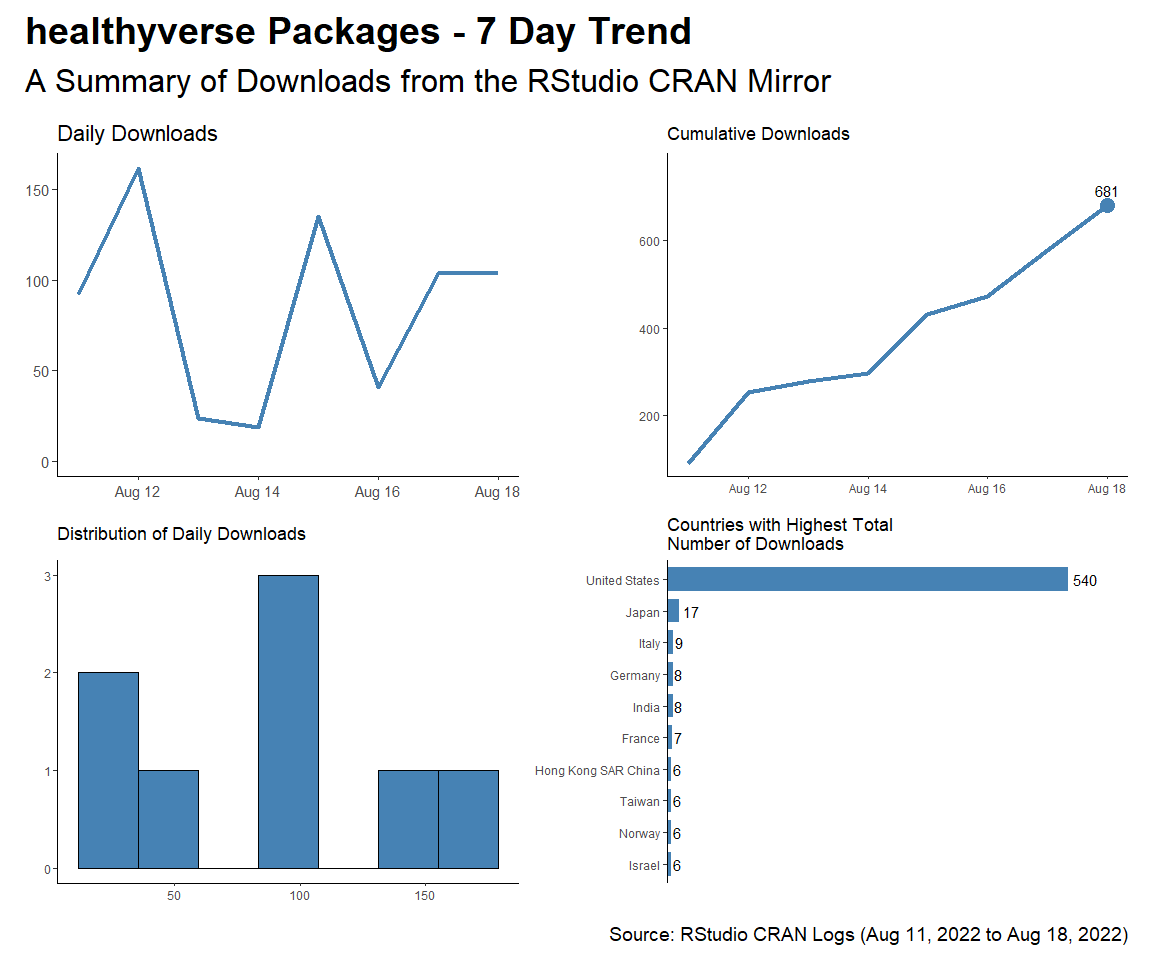
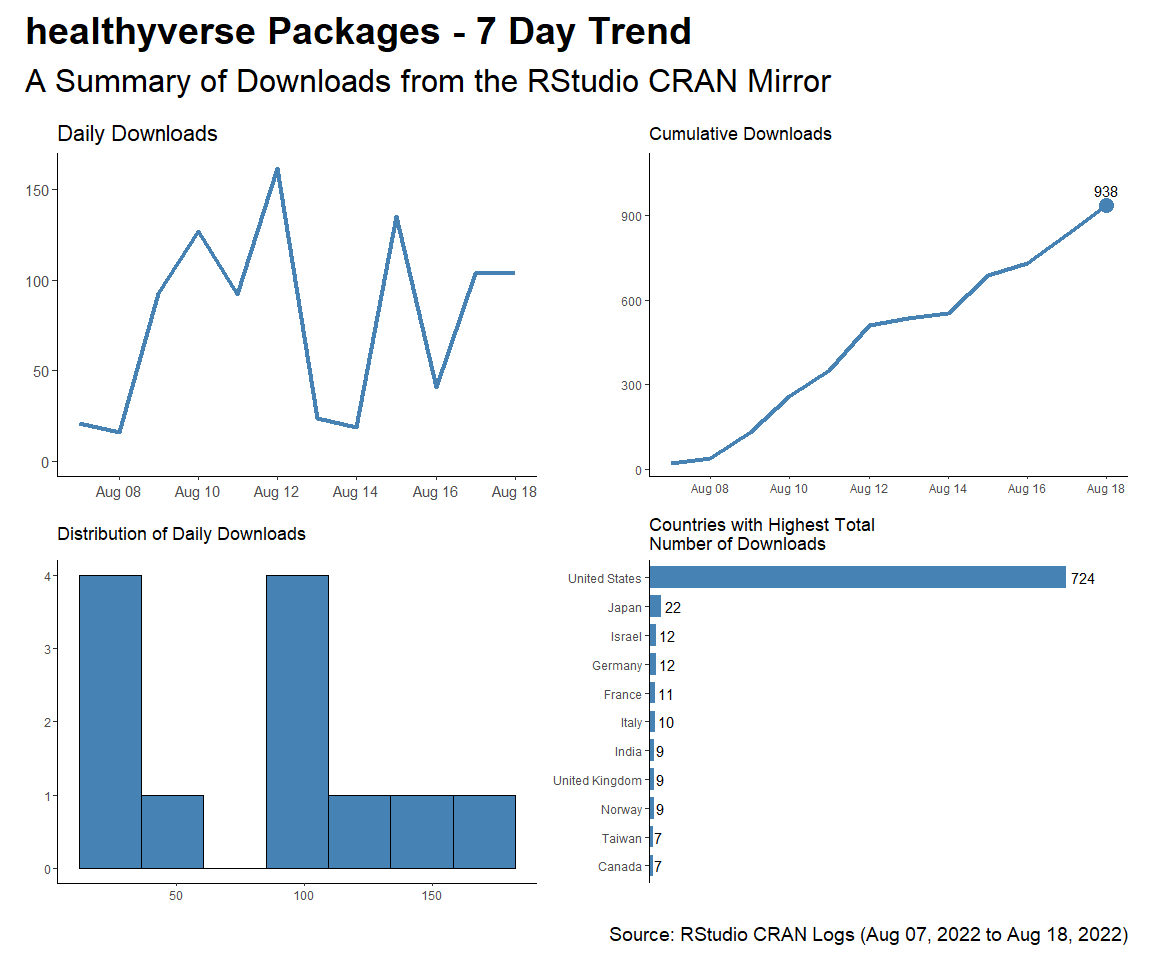
update

diff --git a/downloads_map.html b/downloads_map.html
@@ -4054,11 +4054,11 @@ function asArray(value) {
 </head>
 <body style="background-color: white;">
 <div id="htmlwidget_container">
-<div id="htmlwidget-6ce1a82392957fab905f" class="leaflet html-widget" style="width:100%;height:400px;">
+<div id="htmlwidget-2af5025da11c0f1e3ac8" class="leaflet html-widget" style="width:100%;height:400px;">
 
 </div>
 </div>
-<script type="application/json" data-for="htmlwidget-6ce1a82392957fab905f">{"x":{"options":{"crs":{"crsClass":"L.CRS.EPSG3857","code":null,"proj4def":null,"projectedBounds":null,"options":{}}},"calls":[{"method":"addTiles","args":["https://{s}.tile.openstreetmap.org/{z}/{x}/{y}.png",null,null,{"minZoom":0,"maxZoom":18,"tileSize":256,"subdomains":"abc","errorTileUrl":"","tms":false,"noWrap":false,"zoomOffset":0,"zoomReverse":false,"opacity":1,"zIndex":1,"detectRetina":false,"attribution":"&copy; <a href=\"https://openstreetmap.org\">OpenStreetMap<\/a> contributors, <a href=\"https://creativecommons.org/licenses/by-sa/2.0/\">CC-BY-SA<\/a>"}]},{"method":"addMarkers","args":[[39.7837304,54.7023545,51.0834196,22.350627,36.5748441,-31.7613365,-2.4833826,61.0666922,53.4250605,36.638392,32.6475314,4.099917,35.000074,-10.3333333,42.6384261,38.9597594,39.3260685,46.7985624,46.603354,30.3308401,24.0002488,1.4419683,33.0955793,47.1817585,45.9852129,15.2572432,50.6402809,22.3511148,64.6863136,52.15517,23.9739374,-28.8166236,59.6749712,8.0300284,45.5643442,52.215933,31.1667049,63.2467777,-6.8699697,31.1728205,31.5313113,47.59397,40.0332629,13.2904027,31.46242095,34.9823018,-41.5000831,-24.7761086,49.8167003,-14.5189121,10.2735633,60.5000209,14.8971921,8.559559,48.7411522,55.670249,1.357107,10.2116702,10.4430243,49.4871968,45.8133113,1.5333554,46.8250388,16.3471243,35.8885993,23.6585116,-0.5275,7.9897371,16.2490067,12.7503486,8.0018709,-34.9964963,49.8158683,52.865196,-18.4554963,33.8439408,44.1534121,38.9953683,16.8259793,25.6242618,4.5693754,-1.3397668,26.1551249,-23.3165935,26.2540493,-20.2759451,14.4750607,56.8406494,41.000028,24.7736546,25.3336984,41.6171214,55.3500003,33.8750629,13.8000382,-19.302233,9.5293472,13.1500331,7.5554942,28.0000272,-18.9249604,18.19897685,40.7696272,9.6000359,-26.5624806,19.0974031,10.7226226,-0.7264327,4.6125522,5.7499721,42.6073975,-23.1681782,47.2879608,58.7523778,-6.5247123],[-100.445882,-3.2765753,10.4234469,114.1849161,139.2394179,-71.3187697,117.8902853,-107.991707,27.6971358,127.6961188,54.5643516,-72.9088133,104.999927,-53.2,12.674297,34.9249653,-4.8379791,8.2319736,1.8883335,71.247499,53.9994829,38.4313975,44.1749775,19.5060937,24.6859225,-86.0755145,4.6667145,78.6677428,97.7453061,5.38721,120.9820179,24.991639,14.5208584,-1.0800271,17.0118954,19.134422,36.941628,25.9209164,-75.0458515,-7.3362482,34.8667654,14.12456,-7.8896263,108.4265113,34.2627165721307,33.1451285,172.8344077,134.755,15.4749544,27.5589884,-84.0739102,9.0999715,100.83273,-81.1308434,19.4528646,10.3333283,103.8194992,38.6521203,-61.2613053887806,31.2718321,14.4808369,32.2166578,103.8499736,47.8915271,14.4476911,-102.0077097,166.934792270833,-5.5679458,-61.5650444,122.7312101,-66.1109318,-64.9672817,6.1296751,-7.9794599,29.7468414,9.400138,20.55144,21.9877132,-88.7600927,42.3528328,102.2656823,-79.3666965,50.5344606,-58.1693445,29.2675469,57.5703566,-14.4529612,24.7537645,19.9999619,-78.0000547,51.2295295,21.7168387,23.7499997,35.843409,-88.9140683,34.9144977,2.2584408,-59.5250305,80.7137847,2.9999825,46.4416422,-66.2615221941897,44.6736646,7.9999721,31.3991317,-70.3028026,-10.7083587,15.6419155,13.1535811,-9.3658524,25.4856617,24.5928742,28.5670941,25.3319078,35.7878438],null,null,null,{"interactive":true,"draggable":false,"keyboard":true,"title":"","alt":"","zIndexOffset":0,"opacity":1,"riseOnHover":false,"riseOffset":250},["<strong>Country: <\/strong> United States <br><strong>Display Name: <\/strong> United States <br><strong>Downloads: <\/strong> 30539","<strong>Country: <\/strong> United Kingdom <br><strong>Display Name: <\/strong> United Kingdom <br><strong>Downloads: <\/strong> 479","<strong>Country: <\/strong> Germany <br><strong>Display Name: <\/strong> Deutschland <br><strong>Downloads: <\/strong> 665","<strong>Country: <\/strong> Hong Kong SAR China <br><strong>Display Name: <\/strong> 香港 Hong Kong, 中国 <br><strong>Downloads: <\/strong> 244","<strong>Country: <\/strong> Japan <br><strong>Display Name: <\/strong> 日本 <br><strong>Downloads: <\/strong> 1636","<strong>Country: <\/strong> Chile <br><strong>Display Name: <\/strong> Chile <br><strong>Downloads: <\/strong> 84","<strong>Country: <\/strong> Indonesia <br><strong>Display Name: <\/strong> Indonesia <br><strong>Downloads: <\/strong> 117","<strong>Country: <\/strong> Canada <br><strong>Display Name: <\/strong> Canada <br><strong>Downloads: <\/strong> 596","<strong>Country: <\/strong> Belarus <br><strong>Display Name: <\/strong> Беларусь <br><strong>Downloads: <\/strong> 46","<strong>Country: <\/strong> South Korea <br><strong>Display Name: <\/strong> 대한민국 <br><strong>Downloads: <\/strong> 1026","<strong>Country: <\/strong> Iran <br><strong>Display Name: <\/strong> ایران <br><strong>Downloads: <\/strong> 46","<strong>Country: <\/strong> Colombia <br><strong>Display Name: <\/strong> Colombia <br><strong>Downloads: <\/strong> 107","<strong>Country: <\/strong> China <br><strong>Display Name: <\/strong> 中国 <br><strong>Downloads: <\/strong> 609","<strong>Country: <\/strong> Brazil <br><strong>Display Name: <\/strong> Brasil <br><strong>Downloads: <\/strong> 166","<strong>Country: <\/strong> Italy <br><strong>Display Name: <\/strong> Italia <br><strong>Downloads: <\/strong> 329","<strong>Country: <\/strong> Turkey <br><strong>Display Name: <\/strong> Türkiye <br><strong>Downloads: <\/strong> 106","<strong>Country: <\/strong> Spain <br><strong>Display Name: <\/strong> España <br><strong>Downloads: <\/strong> 324","<strong>Country: <\/strong> Switzerland <br><strong>Display Name: <\/strong> Schweiz/Suisse/Svizzera/Svizra <br><strong>Downloads: <\/strong> 212","<strong>Country: <\/strong> France <br><strong>Display Name: <\/strong> France <br><strong>Downloads: <\/strong> 339","<strong>Country: <\/strong> Pakistan <br><strong>Display Name: <\/strong> پاکستان <br><strong>Downloads: <\/strong> 16","<strong>Country: <\/strong> United Arab Emirates <br><strong>Display Name: <\/strong> الإمارات العربية المتحدة <br><strong>Downloads: <\/strong> 38","<strong>Country: <\/strong> Kenya <br><strong>Display Name: <\/strong> Kenya <br><strong>Downloads: <\/strong> 213","<strong>Country: <\/strong> Iraq <br><strong>Display Name: <\/strong> العراق <br><strong>Downloads: <\/strong> 40","<strong>Country: <\/strong> Hungary <br><strong>Display Name: <\/strong> Magyarország <br><strong>Downloads: <\/strong> 19","<strong>Country: <\/strong> Romania <br><strong>Display Name: <\/strong> România <br><strong>Downloads: <\/strong> 99","<strong>Country: <\/strong> Honduras <br><strong>Display Name: <\/strong> Honduras <br><strong>Downloads: <\/strong> 27","<strong>Country: <\/strong> Belgium <br><strong>Display Name: <\/strong> België / Belgique / Belgien <br><strong>Downloads: <\/strong> 127","<strong>Country: <\/strong> India <br><strong>Display Name: <\/strong> India <br><strong>Downloads: <\/strong> 247","<strong>Country: <\/strong> Russia <br><strong>Display Name: <\/strong> Россия <br><strong>Downloads: <\/strong> 152","<strong>Country: <\/strong> Netherlands <br><strong>Display Name: <\/strong> Nederland <br><strong>Downloads: <\/strong> 235","<strong>Country: <\/strong> Taiwan <br><strong>Display Name: <\/strong> 臺灣 <br><strong>Downloads: <\/strong> 142","<strong>Country: <\/strong> South Africa <br><strong>Display Name: <\/strong> South Africa <br><strong>Downloads: <\/strong> 175","<strong>Country: <\/strong> Sweden <br><strong>Display Name: <\/strong> Sverige <br><strong>Downloads: <\/strong> 74","<strong>Country: <\/strong> Ghana <br><strong>Display Name: <\/strong> Ghana <br><strong>Downloads: <\/strong> 24","<strong>Country: <\/strong> Croatia <br><strong>Display Name: <\/strong> Hrvatska <br><strong>Downloads: <\/strong> 2","<strong>Country: <\/strong> Poland <br><strong>Display Name: <\/strong> Polska <br><strong>Downloads: <\/strong> 153","<strong>Country: <\/strong> Jordan <br><strong>Display Name: <\/strong> الأردن <br><strong>Downloads: <\/strong> 11","<strong>Country: <\/strong> Finland <br><strong>Display Name: <\/strong> Suomi / Finland <br><strong>Downloads: <\/strong> 119","<strong>Country: <\/strong> Peru <br><strong>Display Name: <\/strong> Perú <br><strong>Downloads: <\/strong> 17","<strong>Country: <\/strong> Morocco <br><strong>Display Name: <\/strong> Maroc / ⵍⵎⵖⵔⵉⴱ / المغرب <br><strong>Downloads: <\/strong> 37","<strong>Country: <\/strong> Israel <br><strong>Display Name: <\/strong> ישראל <br><strong>Downloads: <\/strong> 136","<strong>Country: <\/strong> Austria <br><strong>Display Name: <\/strong> Österreich <br><strong>Downloads: <\/strong> 18","<strong>Country: <\/strong> Portugal <br><strong>Display Name: <\/strong> Portugal <br><strong>Downloads: <\/strong> 39","<strong>Country: <\/strong> Vietnam <br><strong>Display Name: <\/strong> Việt Nam <br><strong>Downloads: <\/strong> 52","<strong>Country: <\/strong> Palestinian Territories <br><strong>Display Name: <\/strong> الأراضي الفلسطينية, Palestinian Territory <br><strong>Downloads: <\/strong> 3","<strong>Country: <\/strong> Cyprus <br><strong>Display Name: <\/strong> Κύπρος - Kıbrıs <br><strong>Downloads: <\/strong> 15","<strong>Country: <\/strong> New Zealand <br><strong>Display Name: <\/strong> New Zealand / Aotearoa <br><strong>Downloads: <\/strong> 15","<strong>Country: <\/strong> Australia <br><strong>Display Name: <\/strong> Australia <br><strong>Downloads: <\/strong> 94","<strong>Country: <\/strong> Czechia <br><strong>Display Name: <\/strong> Česko <br><strong>Downloads: <\/strong> 40","<strong>Country: <\/strong> Zambia <br><strong>Display Name: <\/strong> Zambia <br><strong>Downloads: <\/strong> 5","<strong>Country: <\/strong> Costa Rica <br><strong>Display Name: <\/strong> Costa Rica <br><strong>Downloads: <\/strong> 120","<strong>Country: <\/strong> Norway <br><strong>Display Name: <\/strong> Norge <br><strong>Downloads: <\/strong> 54","<strong>Country: <\/strong> Thailand <br><strong>Display Name: <\/strong> ประเทศไทย <br><strong>Downloads: <\/strong> 26","<strong>Country: <\/strong> Panama <br><strong>Display Name: <\/strong> Panamá <br><strong>Downloads: <\/strong> 9","<strong>Country: <\/strong> Slovakia <br><strong>Display Name: <\/strong> Slovensko <br><strong>Downloads: <\/strong> 22","<strong>Country: <\/strong> Denmark <br><strong>Display Name: <\/strong> Danmark <br><strong>Downloads: <\/strong> 81","<strong>Country: <\/strong> Singapore <br><strong>Display Name: <\/strong> Singapore <br><strong>Downloads: <\/strong> 82","<strong>Country: <\/strong> Ethiopia <br><strong>Display Name: <\/strong> ኢትዮጵያ <br><strong>Downloads: <\/strong> 11","<strong>Country: <\/strong> Trinidad & Tobago <br><strong>Display Name: <\/strong> Trinidad, Couva-Tabaquite-Talparo, Trinidad and Tobago <br><strong>Downloads: <\/strong> 93","<strong>Country: <\/strong> Ukraine <br><strong>Display Name: <\/strong> Україна <br><strong>Downloads: <\/strong> 71","<strong>Country: <\/strong> Slovenia <br><strong>Display Name: <\/strong> Slovenija <br><strong>Downloads: <\/strong> 5","<strong>Country: <\/strong> Uganda <br><strong>Display Name: <\/strong> Uganda <br><strong>Downloads: <\/strong> 8","<strong>Country: <\/strong> Mongolia <br><strong>Display Name: <\/strong> Монгол улс ᠮᠤᠩᠭᠤᠯ ᠤᠯᠤᠰ <br><strong>Downloads: <\/strong> 4","<strong>Country: <\/strong> Yemen <br><strong>Display Name: <\/strong> اليمن <br><strong>Downloads: <\/strong> 1","<strong>Country: <\/strong> Malta <br><strong>Display Name: <\/strong> Malta <br><strong>Downloads: <\/strong> 2","<strong>Country: <\/strong> Mexico <br><strong>Display Name: <\/strong> México <br><strong>Downloads: <\/strong> 95","<strong>Country: <\/strong> Nauru <br><strong>Display Name: <\/strong> Naoero <br><strong>Downloads: <\/strong> 8","<strong>Country: <\/strong> Côte d’Ivoire <br><strong>Display Name: <\/strong> Côte d’Ivoire <br><strong>Downloads: <\/strong> 4","<strong>Country: <\/strong> Guadeloupe <br><strong>Display Name: <\/strong> Guadeloupe, France <br><strong>Downloads: <\/strong> 1","<strong>Country: <\/strong> Philippines <br><strong>Display Name: <\/strong> Pilipinas / Philippines <br><strong>Downloads: <\/strong> 26","<strong>Country: <\/strong> Venezuela <br><strong>Display Name: <\/strong> Venezuela <br><strong>Downloads: <\/strong> 9","<strong>Country: <\/strong> Argentina <br><strong>Display Name: <\/strong> Argentina <br><strong>Downloads: <\/strong> 32","<strong>Country: <\/strong> Luxembourg <br><strong>Display Name: <\/strong> Lëtzebuerg <br><strong>Downloads: <\/strong> 26","<strong>Country: <\/strong> Ireland <br><strong>Display Name: <\/strong> Éire / Ireland <br><strong>Downloads: <\/strong> 18","<strong>Country: <\/strong> Zimbabwe <br><strong>Display Name: <\/strong> Zimbabwe <br><strong>Downloads: <\/strong> 4","<strong>Country: <\/strong> Tunisia <br><strong>Display Name: <\/strong> تونس <br><strong>Downloads: <\/strong> 12","<strong>Country: <\/strong> Serbia <br><strong>Display Name: <\/strong> Србија <br><strong>Downloads: <\/strong> 17","<strong>Country: <\/strong> Greece <br><strong>Display Name: <\/strong> Ελλάς <br><strong>Downloads: <\/strong> 28","<strong>Country: <\/strong> Belize <br><strong>Display Name: <\/strong> Belize <br><strong>Downloads: <\/strong> 5","<strong>Country: <\/strong> Saudi Arabia <br><strong>Display Name: <\/strong> السعودية <br><strong>Downloads: <\/strong> 32","<strong>Country: <\/strong> Malaysia <br><strong>Display Name: <\/strong> Malaysia <br><strong>Downloads: <\/strong> 24","<strong>Country: <\/strong> Ecuador <br><strong>Display Name: <\/strong> Ecuador <br><strong>Downloads: <\/strong> 22","<strong>Country: <\/strong> Bahrain <br><strong>Display Name: <\/strong> البحرين <br><strong>Downloads: <\/strong> 4","<strong>Country: <\/strong> Paraguay <br><strong>Display Name: <\/strong> Paraguay <br><strong>Downloads: <\/strong> 4","<strong>Country: <\/strong> Egypt <br><strong>Display Name: <\/strong> مصر <br><strong>Downloads: <\/strong> 22","<strong>Country: <\/strong> Mauritius <br><strong>Display Name: <\/strong> Mauritius <br><strong>Downloads: <\/strong> 9","<strong>Country: <\/strong> Senegal <br><strong>Display Name: <\/strong> Sénégal <br><strong>Downloads: <\/strong> 10","<strong>Country: <\/strong> Latvia <br><strong>Display Name: <\/strong> Latvija <br><strong>Downloads: <\/strong> 6","<strong>Country: <\/strong> Albania <br><strong>Display Name: <\/strong> Shqipëria <br><strong>Downloads: <\/strong> 1","<strong>Country: <\/strong> Bahamas <br><strong>Display Name: <\/strong> The Bahamas <br><strong>Downloads: <\/strong> 4","<strong>Country: <\/strong> Qatar <br><strong>Display Name: <\/strong> قطر <br><strong>Downloads: <\/strong> 5","<strong>Country: <\/strong> North Macedonia <br><strong>Display Name: <\/strong> Северна Македонија <br><strong>Downloads: <\/strong> 5","<strong>Country: <\/strong> Lithuania <br><strong>Display Name: <\/strong> Lietuva <br><strong>Downloads: <\/strong> 5","<strong>Country: <\/strong> Lebanon <br><strong>Display Name: <\/strong> لبنان <br><strong>Downloads: <\/strong> 5","<strong>Country: <\/strong> El Salvador <br><strong>Display Name: <\/strong> El Salvador <br><strong>Downloads: <\/strong> 5","<strong>Country: <\/strong> Mozambique <br><strong>Display Name: <\/strong> Moçambique <br><strong>Downloads: <\/strong> 5","<strong>Country: <\/strong> Benin <br><strong>Display Name: <\/strong> Bénin <br><strong>Downloads: <\/strong> 33","<strong>Country: <\/strong> Barbados <br><strong>Display Name: <\/strong> Barbados <br><strong>Downloads: <\/strong> 1","<strong>Country: <\/strong> Sri Lanka <br><strong>Display Name: <\/strong> ශ්රී ලංකාව இலங்கை <br><strong>Downloads: <\/strong> 6","<strong>Country: <\/strong> Algeria <br><strong>Display Name: <\/strong> Algérie / ⵍⵣⵣⴰⵢⴻⵔ / الجزائر <br><strong>Downloads: <\/strong> 11","<strong>Country: <\/strong> Madagascar <br><strong>Display Name: <\/strong> Madagasikara <br><strong>Downloads: <\/strong> 7","<strong>Country: <\/strong> Puerto Rico <br><strong>Display Name: <\/strong> Puerto Rico, United States <br><strong>Downloads: <\/strong> 5","<strong>Country: <\/strong> Armenia <br><strong>Display Name: <\/strong> Հայաստան <br><strong>Downloads: <\/strong> 2","<strong>Country: <\/strong> Nigeria <br><strong>Display Name: <\/strong> Nigeria <br><strong>Downloads: <\/strong> 14","<strong>Country: <\/strong> Eswatini <br><strong>Display Name: <\/strong> eSwatini <br><strong>Downloads: <\/strong> 5","<strong>Country: <\/strong> Dominican Republic <br><strong>Display Name: <\/strong> República Dominicana <br><strong>Downloads: <\/strong> 7","<strong>Country: <\/strong> Guinea <br><strong>Display Name: <\/strong> Guinée <br><strong>Downloads: <\/strong> 1","<strong>Country: <\/strong> Congo - Brazzaville <br><strong>Display Name: <\/strong> Congo <br><strong>Downloads: <\/strong> 1","<strong>Country: <\/strong> Cameroon <br><strong>Display Name: <\/strong> Cameroun <br><strong>Downloads: <\/strong> 18","<strong>Country: <\/strong> Liberia <br><strong>Display Name: <\/strong> Liberia <br><strong>Downloads: <\/strong> 1","<strong>Country: <\/strong> Bulgaria <br><strong>Display Name: <\/strong> Бългaрия <br><strong>Downloads: <\/strong> 10","<strong>Country: <\/strong> Botswana <br><strong>Display Name: <\/strong> Botswana <br><strong>Downloads: <\/strong> 1","<strong>Country: <\/strong> Moldova <br><strong>Display Name: <\/strong> Moldova <br><strong>Downloads: <\/strong> 1","<strong>Country: <\/strong> Estonia <br><strong>Display Name: <\/strong> Eesti <br><strong>Downloads: <\/strong> 42","<strong>Country: <\/strong> Tanzania <br><strong>Display Name: <\/strong> Tanzania <br><strong>Downloads: <\/strong> 10"],null,null,null,["United States","United Kingdom","Germany","Hong Kong SAR China","Japan","Chile","Indonesia","Canada","Belarus","South Korea","Iran","Colombia","China","Brazil","Italy","Turkey","Spain","Switzerland","France","Pakistan","United Arab Emirates","Kenya","Iraq","Hungary","Romania","Honduras","Belgium","India","Russia","Netherlands","Taiwan","South Africa","Sweden","Ghana","Croatia","Poland","Jordan","Finland","Peru","Morocco","Israel","Austria","Portugal","Vietnam","Palestinian Territories","Cyprus","New Zealand","Australia","Czechia","Zambia","Costa Rica","Norway","Thailand","Panama","Slovakia","Denmark","Singapore","Ethiopia","Trinidad &amp;amp; Tobago","Ukraine","Slovenia","Uganda","Mongolia","Yemen","Malta","Mexico","Nauru","Côte d’Ivoire","Guadeloupe","Philippines","Venezuela","Argentina","Luxembourg","Ireland","Zimbabwe","Tunisia","Serbia","Greece","Belize","Saudi Arabia","Malaysia","Ecuador","Bahrain","Paraguay","Egypt","Mauritius","Senegal","Latvia","Albania","Bahamas","Qatar","North Macedonia","Lithuania","Lebanon","El Salvador","Mozambique","Benin","Barbados","Sri Lanka","Algeria","Madagascar","Puerto Rico","Armenia","Nigeria","Eswatini","Dominican Republic","Guinea","Congo - Brazzaville","Cameroon","Liberia","Bulgaria","Botswana","Moldova","Estonia","Tanzania"],{"interactive":false,"permanent":false,"direction":"auto","opacity":1,"offset":[0,0],"textsize":"10px","textOnly":false,"className":"","sticky":true},null]}],"limits":{"lat":[-41.5000831,64.6863136],"lng":[-107.991707,172.8344077]}},"evals":[],"jsHooks":[]}</script>
-<script type="application/htmlwidget-sizing" data-for="htmlwidget-6ce1a82392957fab905f">{"viewer":{"width":"100%","height":400,"padding":0,"fill":true},"browser":{"width":"100%","height":400,"padding":0,"fill":true}}</script>
+<script type="application/json" data-for="htmlwidget-2af5025da11c0f1e3ac8">{"x":{"options":{"crs":{"crsClass":"L.CRS.EPSG3857","code":null,"proj4def":null,"projectedBounds":null,"options":{}}},"calls":[{"method":"addTiles","args":["https://{s}.tile.openstreetmap.org/{z}/{x}/{y}.png",null,null,{"minZoom":0,"maxZoom":18,"tileSize":256,"subdomains":"abc","errorTileUrl":"","tms":false,"noWrap":false,"zoomOffset":0,"zoomReverse":false,"opacity":1,"zIndex":1,"detectRetina":false,"attribution":"&copy; <a href=\"https://openstreetmap.org\">OpenStreetMap<\/a> contributors, <a href=\"https://creativecommons.org/licenses/by-sa/2.0/\">CC-BY-SA<\/a>"}]},{"method":"addMarkers","args":[[39.7837304,54.7023545,51.0834196,22.350627,36.5748441,-31.7613365,-2.4833826,61.0666922,53.4250605,36.638392,32.6475314,4.099917,35.000074,-10.3333333,42.6384261,38.9597594,39.3260685,46.7985624,46.603354,30.3308401,24.0002488,1.4419683,33.0955793,47.1817585,45.9852129,15.2572432,50.6402809,22.3511148,64.6863136,52.15517,23.9739374,-28.8166236,59.6749712,8.0300284,45.5643442,52.215933,31.1667049,63.2467777,-6.8699697,31.1728205,31.5313113,47.59397,40.0332629,13.2904027,31.46242095,34.9823018,-41.5000831,-24.7761086,49.8167003,-14.5189121,10.2735633,60.5000209,14.8971921,8.559559,48.7411522,55.670249,1.357107,10.2116702,10.4430243,49.4871968,45.8133113,1.5333554,46.8250388,16.3471243,35.8885993,23.6585116,-0.5275,7.9897371,16.2490067,12.7503486,8.0018709,-34.9964963,49.8158683,52.865196,-18.4554963,33.8439408,44.1534121,38.9953683,16.8259793,25.6242618,4.5693754,-1.3397668,26.1551249,-23.3165935,26.2540493,-20.2759451,14.4750607,56.8406494,41.000028,24.7736546,25.3336984,41.6171214,55.3500003,33.8750629,13.8000382,-19.302233,9.5293472,13.1500331,7.5554942,28.0000272,-18.9249604,18.19897685,40.7696272,9.6000359,-26.5624806,19.0974031,10.7226226,-0.7264327,4.6125522,5.7499721,42.6073975,-23.1681782,47.2879608,58.7523778,-6.5247123],[-100.445882,-3.2765753,10.4234469,114.1849161,139.2394179,-71.3187697,117.8902853,-107.991707,27.6971358,127.6961188,54.5643516,-72.9088133,104.999927,-53.2,12.674297,34.9249653,-4.8379791,8.2319736,1.8883335,71.247499,53.9994829,38.4313975,44.1749775,19.5060937,24.6859225,-86.0755145,4.6667145,78.6677428,97.7453061,5.38721,120.9820179,24.991639,14.5208584,-1.0800271,17.0118954,19.134422,36.941628,25.9209164,-75.0458515,-7.3362482,34.8667654,14.12456,-7.8896263,108.4265113,34.2627165721307,33.1451285,172.8344077,134.755,15.4749544,27.5589884,-84.0739102,9.0999715,100.83273,-81.1308434,19.4528646,10.3333283,103.8194992,38.6521203,-61.2613053887806,31.2718321,14.4808369,32.2166578,103.8499736,47.8915271,14.4476911,-102.0077097,166.934792270833,-5.5679458,-61.5650444,122.7312101,-66.1109318,-64.9672817,6.1296751,-7.9794599,29.7468414,9.400138,20.55144,21.9877132,-88.7600927,42.3528328,102.2656823,-79.3666965,50.5344606,-58.1693445,29.2675469,57.5703566,-14.4529612,24.7537645,19.9999619,-78.0000547,51.2295295,21.7168387,23.7499997,35.843409,-88.9140683,34.9144977,2.2584408,-59.5250305,80.7137847,2.9999825,46.4416422,-66.2615221941897,44.6736646,7.9999721,31.3991317,-70.3028026,-10.7083587,15.6419155,13.1535811,-9.3658524,25.4856617,24.5928742,28.5670941,25.3319078,35.7878438],null,null,null,{"interactive":true,"draggable":false,"keyboard":true,"title":"","alt":"","zIndexOffset":0,"opacity":1,"riseOnHover":false,"riseOffset":250},["<strong>Country: <\/strong> United States <br><strong>Display Name: <\/strong> United States <br><strong>Downloads: <\/strong> 30539","<strong>Country: <\/strong> United Kingdom <br><strong>Display Name: <\/strong> United Kingdom <br><strong>Downloads: <\/strong> 479","<strong>Country: <\/strong> Germany <br><strong>Display Name: <\/strong> Deutschland <br><strong>Downloads: <\/strong> 665","<strong>Country: <\/strong> Hong Kong SAR China <br><strong>Display Name: <\/strong> 香港 Hong Kong, 中国 <br><strong>Downloads: <\/strong> 244","<strong>Country: <\/strong> Japan <br><strong>Display Name: <\/strong> 日本 <br><strong>Downloads: <\/strong> 1636","<strong>Country: <\/strong> Chile <br><strong>Display Name: <\/strong> Chile <br><strong>Downloads: <\/strong> 84","<strong>Country: <\/strong> Indonesia <br><strong>Display Name: <\/strong> Indonesia <br><strong>Downloads: <\/strong> 117","<strong>Country: <\/strong> Canada <br><strong>Display Name: <\/strong> Canada <br><strong>Downloads: <\/strong> 596","<strong>Country: <\/strong> Belarus <br><strong>Display Name: <\/strong> Беларусь <br><strong>Downloads: <\/strong> 46","<strong>Country: <\/strong> South Korea <br><strong>Display Name: <\/strong> 대한민국 <br><strong>Downloads: <\/strong> 1026","<strong>Country: <\/strong> Iran <br><strong>Display Name: <\/strong> ایران <br><strong>Downloads: <\/strong> 46","<strong>Country: <\/strong> Colombia <br><strong>Display Name: <\/strong> Colombia <br><strong>Downloads: <\/strong> 107","<strong>Country: <\/strong> China <br><strong>Display Name: <\/strong> 中国 <br><strong>Downloads: <\/strong> 609","<strong>Country: <\/strong> Brazil <br><strong>Display Name: <\/strong> Brasil <br><strong>Downloads: <\/strong> 166","<strong>Country: <\/strong> Italy <br><strong>Display Name: <\/strong> Italia <br><strong>Downloads: <\/strong> 329","<strong>Country: <\/strong> Turkey <br><strong>Display Name: <\/strong> Türkiye <br><strong>Downloads: <\/strong> 106","<strong>Country: <\/strong> Spain <br><strong>Display Name: <\/strong> España <br><strong>Downloads: <\/strong> 324","<strong>Country: <\/strong> Switzerland <br><strong>Display Name: <\/strong> Schweiz/Suisse/Svizzera/Svizra <br><strong>Downloads: <\/strong> 212","<strong>Country: <\/strong> France <br><strong>Display Name: <\/strong> France <br><strong>Downloads: <\/strong> 339","<strong>Country: <\/strong> Pakistan <br><strong>Display Name: <\/strong> پاکستان <br><strong>Downloads: <\/strong> 16","<strong>Country: <\/strong> United Arab Emirates <br><strong>Display Name: <\/strong> الإمارات العربية المتحدة <br><strong>Downloads: <\/strong> 38","<strong>Country: <\/strong> Kenya <br><strong>Display Name: <\/strong> Kenya <br><strong>Downloads: <\/strong> 213","<strong>Country: <\/strong> Iraq <br><strong>Display Name: <\/strong> العراق <br><strong>Downloads: <\/strong> 40","<strong>Country: <\/strong> Hungary <br><strong>Display Name: <\/strong> Magyarország <br><strong>Downloads: <\/strong> 19","<strong>Country: <\/strong> Romania <br><strong>Display Name: <\/strong> România <br><strong>Downloads: <\/strong> 99","<strong>Country: <\/strong> Honduras <br><strong>Display Name: <\/strong> Honduras <br><strong>Downloads: <\/strong> 27","<strong>Country: <\/strong> Belgium <br><strong>Display Name: <\/strong> België / Belgique / Belgien <br><strong>Downloads: <\/strong> 127","<strong>Country: <\/strong> India <br><strong>Display Name: <\/strong> India <br><strong>Downloads: <\/strong> 247","<strong>Country: <\/strong> Russia <br><strong>Display Name: <\/strong> Россия <br><strong>Downloads: <\/strong> 152","<strong>Country: <\/strong> Netherlands <br><strong>Display Name: <\/strong> Nederland <br><strong>Downloads: <\/strong> 235","<strong>Country: <\/strong> Taiwan <br><strong>Display Name: <\/strong> 臺灣 <br><strong>Downloads: <\/strong> 142","<strong>Country: <\/strong> South Africa <br><strong>Display Name: <\/strong> South Africa <br><strong>Downloads: <\/strong> 175","<strong>Country: <\/strong> Sweden <br><strong>Display Name: <\/strong> Sverige <br><strong>Downloads: <\/strong> 74","<strong>Country: <\/strong> Ghana <br><strong>Display Name: <\/strong> Ghana <br><strong>Downloads: <\/strong> 24","<strong>Country: <\/strong> Croatia <br><strong>Display Name: <\/strong> Hrvatska <br><strong>Downloads: <\/strong> 2","<strong>Country: <\/strong> Poland <br><strong>Display Name: <\/strong> Polska <br><strong>Downloads: <\/strong> 153","<strong>Country: <\/strong> Jordan <br><strong>Display Name: <\/strong> الأردن <br><strong>Downloads: <\/strong> 11","<strong>Country: <\/strong> Finland <br><strong>Display Name: <\/strong> Suomi / Finland <br><strong>Downloads: <\/strong> 119","<strong>Country: <\/strong> Peru <br><strong>Display Name: <\/strong> Perú <br><strong>Downloads: <\/strong> 17","<strong>Country: <\/strong> Morocco <br><strong>Display Name: <\/strong> Maroc / ⵍⵎⵖⵔⵉⴱ / المغرب <br><strong>Downloads: <\/strong> 37","<strong>Country: <\/strong> Israel <br><strong>Display Name: <\/strong> ישראל <br><strong>Downloads: <\/strong> 136","<strong>Country: <\/strong> Austria <br><strong>Display Name: <\/strong> Österreich <br><strong>Downloads: <\/strong> 18","<strong>Country: <\/strong> Portugal <br><strong>Display Name: <\/strong> Portugal <br><strong>Downloads: <\/strong> 39","<strong>Country: <\/strong> Vietnam <br><strong>Display Name: <\/strong> Việt Nam <br><strong>Downloads: <\/strong> 52","<strong>Country: <\/strong> Palestinian Territories <br><strong>Display Name: <\/strong> الأراضي الفلسطينية, Palestinian Territory <br><strong>Downloads: <\/strong> 3","<strong>Country: <\/strong> Cyprus <br><strong>Display Name: <\/strong> Κύπρος - Kıbrıs <br><strong>Downloads: <\/strong> 15","<strong>Country: <\/strong> New Zealand <br><strong>Display Name: <\/strong> New Zealand / Aotearoa <br><strong>Downloads: <\/strong> 15","<strong>Country: <\/strong> Australia <br><strong>Display Name: <\/strong> Australia <br><strong>Downloads: <\/strong> 94","<strong>Country: <\/strong> Czechia <br><strong>Display Name: <\/strong> Česko <br><strong>Downloads: <\/strong> 40","<strong>Country: <\/strong> Zambia <br><strong>Display Name: <\/strong> Zambia <br><strong>Downloads: <\/strong> 5","<strong>Country: <\/strong> Costa Rica <br><strong>Display Name: <\/strong> Costa Rica <br><strong>Downloads: <\/strong> 120","<strong>Country: <\/strong> Norway <br><strong>Display Name: <\/strong> Norge <br><strong>Downloads: <\/strong> 54","<strong>Country: <\/strong> Thailand <br><strong>Display Name: <\/strong> ประเทศไทย <br><strong>Downloads: <\/strong> 26","<strong>Country: <\/strong> Panama <br><strong>Display Name: <\/strong> Panamá <br><strong>Downloads: <\/strong> 9","<strong>Country: <\/strong> Slovakia <br><strong>Display Name: <\/strong> Slovensko <br><strong>Downloads: <\/strong> 22","<strong>Country: <\/strong> Denmark <br><strong>Display Name: <\/strong> Danmark <br><strong>Downloads: <\/strong> 81","<strong>Country: <\/strong> Singapore <br><strong>Display Name: <\/strong> Singapore <br><strong>Downloads: <\/strong> 82","<strong>Country: <\/strong> Ethiopia <br><strong>Display Name: <\/strong> ኢትዮጵያ <br><strong>Downloads: <\/strong> 11","<strong>Country: <\/strong> Trinidad & Tobago <br><strong>Display Name: <\/strong> Trinidad, Couva-Tabaquite-Talparo, Trinidad and Tobago <br><strong>Downloads: <\/strong> 93","<strong>Country: <\/strong> Ukraine <br><strong>Display Name: <\/strong> Україна <br><strong>Downloads: <\/strong> 71","<strong>Country: <\/strong> Slovenia <br><strong>Display Name: <\/strong> Slovenija <br><strong>Downloads: <\/strong> 5","<strong>Country: <\/strong> Uganda <br><strong>Display Name: <\/strong> Uganda <br><strong>Downloads: <\/strong> 8","<strong>Country: <\/strong> Mongolia <br><strong>Display Name: <\/strong> Монгол улс ᠮᠤᠩᠭᠤᠯ ᠤᠯᠤᠰ <br><strong>Downloads: <\/strong> 4","<strong>Country: <\/strong> Yemen <br><strong>Display Name: <\/strong> اليمن <br><strong>Downloads: <\/strong> 1","<strong>Country: <\/strong> Malta <br><strong>Display Name: <\/strong> Malta <br><strong>Downloads: <\/strong> 2","<strong>Country: <\/strong> Mexico <br><strong>Display Name: <\/strong> México <br><strong>Downloads: <\/strong> 95","<strong>Country: <\/strong> Nauru <br><strong>Display Name: <\/strong> Naoero <br><strong>Downloads: <\/strong> 8","<strong>Country: <\/strong> Côte d’Ivoire <br><strong>Display Name: <\/strong> Côte d’Ivoire <br><strong>Downloads: <\/strong> 4","<strong>Country: <\/strong> Guadeloupe <br><strong>Display Name: <\/strong> Guadeloupe, France <br><strong>Downloads: <\/strong> 1","<strong>Country: <\/strong> Philippines <br><strong>Display Name: <\/strong> Pilipinas / Philippines <br><strong>Downloads: <\/strong> 26","<strong>Country: <\/strong> Venezuela <br><strong>Display Name: <\/strong> Venezuela <br><strong>Downloads: <\/strong> 9","<strong>Country: <\/strong> Argentina <br><strong>Display Name: <\/strong> Argentina <br><strong>Downloads: <\/strong> 32","<strong>Country: <\/strong> Luxembourg <br><strong>Display Name: <\/strong> Lëtzebuerg <br><strong>Downloads: <\/strong> 26","<strong>Country: <\/strong> Ireland <br><strong>Display Name: <\/strong> Éire / Ireland <br><strong>Downloads: <\/strong> 18","<strong>Country: <\/strong> Zimbabwe <br><strong>Display Name: <\/strong> Zimbabwe <br><strong>Downloads: <\/strong> 4","<strong>Country: <\/strong> Tunisia <br><strong>Display Name: <\/strong> تونس <br><strong>Downloads: <\/strong> 12","<strong>Country: <\/strong> Serbia <br><strong>Display Name: <\/strong> Србија <br><strong>Downloads: <\/strong> 17","<strong>Country: <\/strong> Greece <br><strong>Display Name: <\/strong> Ελλάς <br><strong>Downloads: <\/strong> 28","<strong>Country: <\/strong> Belize <br><strong>Display Name: <\/strong> Belize <br><strong>Downloads: <\/strong> 5","<strong>Country: <\/strong> Saudi Arabia <br><strong>Display Name: <\/strong> السعودية <br><strong>Downloads: <\/strong> 32","<strong>Country: <\/strong> Malaysia <br><strong>Display Name: <\/strong> Malaysia <br><strong>Downloads: <\/strong> 24","<strong>Country: <\/strong> Ecuador <br><strong>Display Name: <\/strong> Ecuador <br><strong>Downloads: <\/strong> 22","<strong>Country: <\/strong> Bahrain <br><strong>Display Name: <\/strong> البحرين <br><strong>Downloads: <\/strong> 4","<strong>Country: <\/strong> Paraguay <br><strong>Display Name: <\/strong> Paraguay <br><strong>Downloads: <\/strong> 4","<strong>Country: <\/strong> Egypt <br><strong>Display Name: <\/strong> مصر <br><strong>Downloads: <\/strong> 22","<strong>Country: <\/strong> Mauritius <br><strong>Display Name: <\/strong> Mauritius <br><strong>Downloads: <\/strong> 9","<strong>Country: <\/strong> Senegal <br><strong>Display Name: <\/strong> Sénégal <br><strong>Downloads: <\/strong> 10","<strong>Country: <\/strong> Latvia <br><strong>Display Name: <\/strong> Latvija <br><strong>Downloads: <\/strong> 6","<strong>Country: <\/strong> Albania <br><strong>Display Name: <\/strong> Shqipëria <br><strong>Downloads: <\/strong> 1","<strong>Country: <\/strong> Bahamas <br><strong>Display Name: <\/strong> The Bahamas <br><strong>Downloads: <\/strong> 4","<strong>Country: <\/strong> Qatar <br><strong>Display Name: <\/strong> قطر <br><strong>Downloads: <\/strong> 5","<strong>Country: <\/strong> North Macedonia <br><strong>Display Name: <\/strong> Северна Македонија <br><strong>Downloads: <\/strong> 5","<strong>Country: <\/strong> Lithuania <br><strong>Display Name: <\/strong> Lietuva <br><strong>Downloads: <\/strong> 5","<strong>Country: <\/strong> Lebanon <br><strong>Display Name: <\/strong> لبنان <br><strong>Downloads: <\/strong> 5","<strong>Country: <\/strong> El Salvador <br><strong>Display Name: <\/strong> El Salvador <br><strong>Downloads: <\/strong> 5","<strong>Country: <\/strong> Mozambique <br><strong>Display Name: <\/strong> Moçambique <br><strong>Downloads: <\/strong> 5","<strong>Country: <\/strong> Benin <br><strong>Display Name: <\/strong> Bénin <br><strong>Downloads: <\/strong> 33","<strong>Country: <\/strong> Barbados <br><strong>Display Name: <\/strong> Barbados <br><strong>Downloads: <\/strong> 1","<strong>Country: <\/strong> Sri Lanka <br><strong>Display Name: <\/strong> ශ්රී ලංකාව இலங்கை <br><strong>Downloads: <\/strong> 6","<strong>Country: <\/strong> Algeria <br><strong>Display Name: <\/strong> Algérie / ⵍⵣⵣⴰⵢⴻⵔ / الجزائر <br><strong>Downloads: <\/strong> 11","<strong>Country: <\/strong> Madagascar <br><strong>Display Name: <\/strong> Madagasikara <br><strong>Downloads: <\/strong> 7","<strong>Country: <\/strong> Puerto Rico <br><strong>Display Name: <\/strong> Puerto Rico, United States <br><strong>Downloads: <\/strong> 5","<strong>Country: <\/strong> Armenia <br><strong>Display Name: <\/strong> Հայաստան <br><strong>Downloads: <\/strong> 2","<strong>Country: <\/strong> Nigeria <br><strong>Display Name: <\/strong> Nigeria <br><strong>Downloads: <\/strong> 14","<strong>Country: <\/strong> Eswatini <br><strong>Display Name: <\/strong> eSwatini <br><strong>Downloads: <\/strong> 5","<strong>Country: <\/strong> Dominican Republic <br><strong>Display Name: <\/strong> República Dominicana <br><strong>Downloads: <\/strong> 7","<strong>Country: <\/strong> Guinea <br><strong>Display Name: <\/strong> Guinée <br><strong>Downloads: <\/strong> 1","<strong>Country: <\/strong> Congo - Brazzaville <br><strong>Display Name: <\/strong> Congo <br><strong>Downloads: <\/strong> 1","<strong>Country: <\/strong> Cameroon <br><strong>Display Name: <\/strong> Cameroun <br><strong>Downloads: <\/strong> 18","<strong>Country: <\/strong> Liberia <br><strong>Display Name: <\/strong> Liberia <br><strong>Downloads: <\/strong> 1","<strong>Country: <\/strong> Bulgaria <br><strong>Display Name: <\/strong> Бългaрия <br><strong>Downloads: <\/strong> 10","<strong>Country: <\/strong> Botswana <br><strong>Display Name: <\/strong> Botswana <br><strong>Downloads: <\/strong> 1","<strong>Country: <\/strong> Moldova <br><strong>Display Name: <\/strong> Moldova <br><strong>Downloads: <\/strong> 1","<strong>Country: <\/strong> Estonia <br><strong>Display Name: <\/strong> Eesti <br><strong>Downloads: <\/strong> 42","<strong>Country: <\/strong> Tanzania <br><strong>Display Name: <\/strong> Tanzania <br><strong>Downloads: <\/strong> 10"],null,null,null,["United States","United Kingdom","Germany","Hong Kong SAR China","Japan","Chile","Indonesia","Canada","Belarus","South Korea","Iran","Colombia","China","Brazil","Italy","Turkey","Spain","Switzerland","France","Pakistan","United Arab Emirates","Kenya","Iraq","Hungary","Romania","Honduras","Belgium","India","Russia","Netherlands","Taiwan","South Africa","Sweden","Ghana","Croatia","Poland","Jordan","Finland","Peru","Morocco","Israel","Austria","Portugal","Vietnam","Palestinian Territories","Cyprus","New Zealand","Australia","Czechia","Zambia","Costa Rica","Norway","Thailand","Panama","Slovakia","Denmark","Singapore","Ethiopia","Trinidad &amp;amp; Tobago","Ukraine","Slovenia","Uganda","Mongolia","Yemen","Malta","Mexico","Nauru","Côte d’Ivoire","Guadeloupe","Philippines","Venezuela","Argentina","Luxembourg","Ireland","Zimbabwe","Tunisia","Serbia","Greece","Belize","Saudi Arabia","Malaysia","Ecuador","Bahrain","Paraguay","Egypt","Mauritius","Senegal","Latvia","Albania","Bahamas","Qatar","North Macedonia","Lithuania","Lebanon","El Salvador","Mozambique","Benin","Barbados","Sri Lanka","Algeria","Madagascar","Puerto Rico","Armenia","Nigeria","Eswatini","Dominican Republic","Guinea","Congo - Brazzaville","Cameroon","Liberia","Bulgaria","Botswana","Moldova","Estonia","Tanzania"],{"interactive":false,"permanent":false,"direction":"auto","opacity":1,"offset":[0,0],"textsize":"10px","textOnly":false,"className":"","sticky":true},null]}],"limits":{"lat":[-41.5000831,64.6863136],"lng":[-107.991707,172.8344077]}},"evals":[],"jsHooks":[]}</script>
+<script type="application/htmlwidget-sizing" data-for="htmlwidget-2af5025da11c0f1e3ac8">{"viewer":{"width":"100%","height":400,"padding":0,"fill":true},"browser":{"width":"100%","height":400,"padding":0,"fill":true}}</script>
 </body>
 </html>

diff --git a/README.md b/README.md
@@ -43,7 +43,7 @@ library(rmarkdown)
 ```
 
 ``` r
-start_date      <- Sys.Date() - 9 #as.Date("2020-11-15")
+start_date      <- as.Date("2022-08-07")#Sys.Date() - 9 #as.Date("2020-11-15")
 end_date        <- Sys.Date() - 2
 total_downloads <- download_logs(start_date, end_date)
 interactive     <- FALSE
